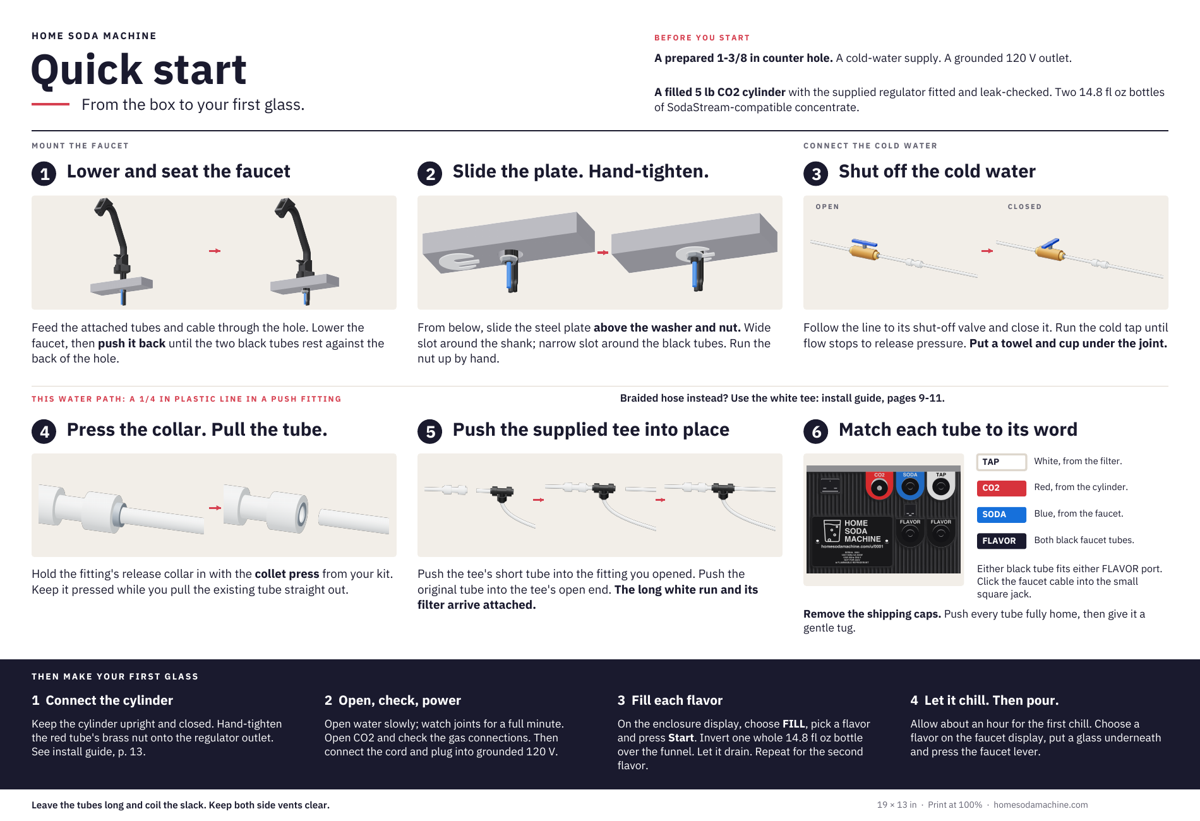
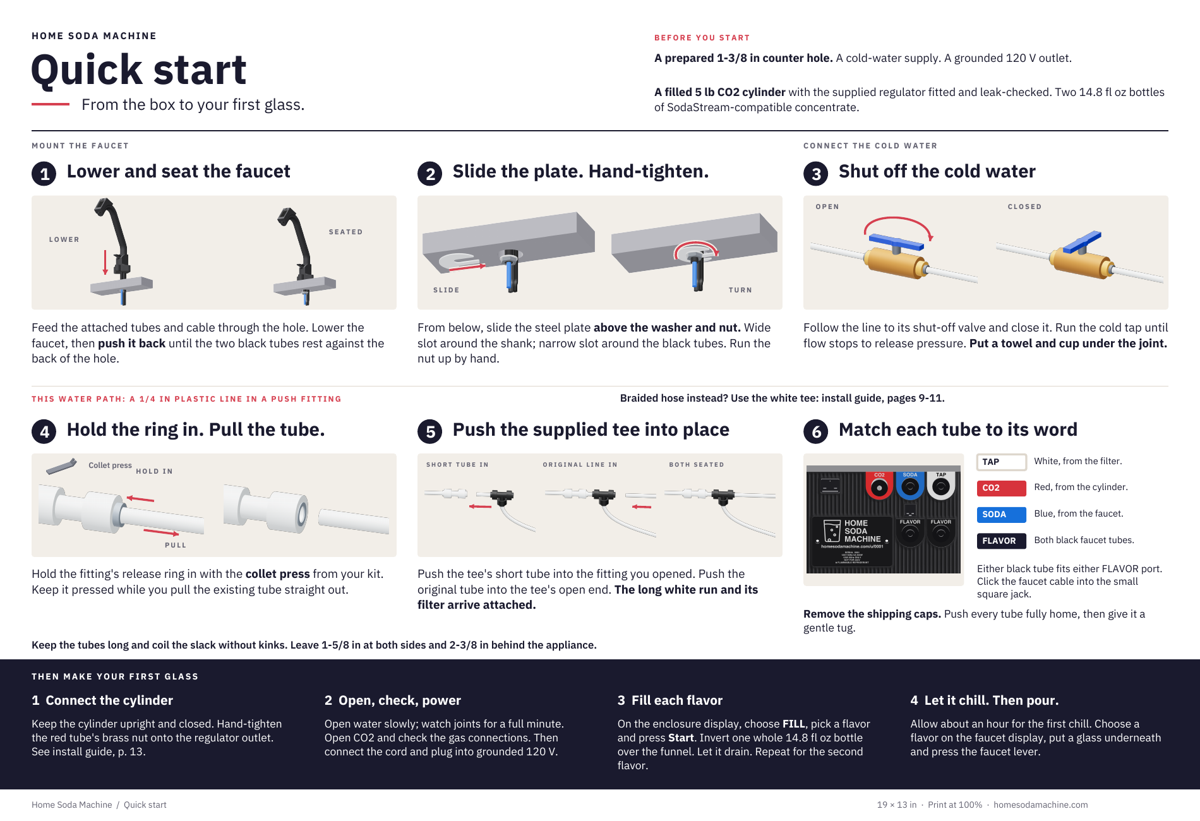
Clarify quick start motion cues and cabinet clearances

diff --git a/tools/quickstart-codex/build.py b/tools/quickstart-codex/build.py
@@ -59,22 +59,32 @@ def label(s,x,y,color=MUTED,size=9):
     t.setFont('Bold',size);t.setCharSpace(1.5);t.textOut(s.upper());c.drawText(t)
     c.restoreState()
 
-def pic(name,x,y,w,h):
+def pic(name,x,y,w,h,crop=None):
     im=Image.open(ART/name)
-    if im.mode=='RGBA':
-        bounds=im.getchannel('A').getbbox()
-        if bounds: im=im.crop(bounds)
+    bounds=crop or (im.getchannel('A').getbbox() if im.mode=='RGBA' else None) or (0,0,im.width,im.height)
+    im=im.crop(bounds)
     scale=min(w/im.width,h/im.height)
     iw,ih=im.width*scale,im.height*scale
-    c.drawImage(ImageReader(im),x+(w-iw)/2,H-y-(h+ih)/2,width=iw,height=ih,mask='auto')
+    ox,oy=x+(w-iw)/2,y+(h-ih)/2
+    c.drawImage(ImageReader(im),ox,H-oy-ih,width=iw,height=ih,mask='auto')
+    return lambda px,py: (ox+(px-bounds[0])*scale,oy+(py-bounds[1])*scale)
 
 def arrow(x1,y1,x2,y2,color=CORAL,width=2.4,head=8):
+    line(x1,y1,x2,y2,PALE,width+3)
     line(x1,y1,x2,y2,color,width)
     a=math.atan2(y2-y1,x2-x1)
     pts=[(x2,y2),(x2-head*math.cos(a-.5),y2-head*math.sin(a-.5)),(x2-head*math.cos(a+.5),y2-head*math.sin(a+.5))]
     p=c.beginPath();p.moveTo(pts[0][0],H-pts[0][1])
     for x,y in pts[1:]:p.lineTo(x,H-y)
     p.close();c.setFillColor(HexColor(color));c.drawPath(p,fill=1,stroke=0)
+
+def turn(points,head=7):
+    a,b,d,e=points
+    p=c.beginPath();p.moveTo(a[0],H-a[1]);p.curveTo(b[0],H-b[1],d[0],H-d[1],e[0],H-e[1])
+    c.setStrokeColor(HexColor(PALE));c.setLineWidth(5.4);c.drawPath(p)
+    c.setStrokeColor(HexColor(CORAL));c.setLineWidth(2.4);c.drawPath(p)
+    vx,vy=e[0]-d[0],e[1]-d[1];length=math.hypot(vx,vy)
+    arrow(e[0]-2*vx/length,e[1]-2*vy/length,*e,head=head)
 
 def step(n,title,x,y):
     c.setFillColor(HexColor(INK));c.circle(x+14,H-y-14,14,stroke=0,fill=1)
@@ -105,50 +115,64 @@ label('CONNECT THE COLD WATER',916,162)
 x,y=36,184
 step(1,'Lower and seat the faucet',x,y)
 artfield(x,y+39)
-pic('mount-drop.png',x+8,y+42,189,122)
-pic('mount-lowered-clean.png',x+217,y+42,189,122)
-arrow(x+202,y+102,x+215,y+102,head=6)
+p=pic('mount-drop.png',x+8,y+42,189,122,crop=(9,33,763,1331))
+pic('mount-lowered-clean.png',x+217,y+42,189,122,crop=(9,-47,763,1251))
+arrow(*p(190,660),*p(190,963),head=7)
+label('LOWER',x+20,y+86,size=8)
+label('SEATED',x+339,y+77,size=8)
 para('Feed the attached tubes and cable through the hole. Lower the faucet, then <b>push it back</b> until the two black tubes rest against the back of the hole.',x,y+181,416,13.5,17.5,limit=70)
 
 x=476
 step(2,'Slide the plate. Hand-tighten.',x,y)
 artfield(x,y+39)
-pic('mount-under-slide-clean.png',x+6,y+50,196,107)
-pic('mount-under-tighten-clean.png',x+221,y+50,189,107)
-arrow(x+205,y+104,x+217,y+104,head=6)
+p=pic('mount-under-slide-clean.png',x+6,y+50,196,107)
+arrow(*p(318,470),*p(600,435),head=7)
+q=pic('mount-under-tighten-clean.png',x+221,y+50,189,107)
+turn([q(640,386),q(570,218),q(970,204),q(959,361)])
+label('SLIDE',x+18,y+143,size=8)
+label('TURN',x+355,y+143,size=8)
 para('From below, slide the steel plate <b>above the washer and nut.</b> Wide slot around the shank; narrow slot around the black tubes. Run the nut up by hand.',x,y+181,416,13.5,17.5,limit=70)
 
 x=916
 step(3,'Shut off the cold water',x,y)
 artfield(x,y+39)
-pic('modern-water-on.png',x+8,y+66,190,89)
-pic('modern-water-off.png',x+220,y+66,190,89)
+p=pic('modern-water-on.png',x+8,y+61,190,91,crop=(170,190,1100,635))
+pic('modern-water-off.png',x+220,y+61,190,91,crop=(170,190,1100,635))
 label('OPEN',x+14,y+48,size=8)
 label('CLOSED',x+233,y+48,size=8)
-arrow(x+203,y+102,x+216,y+102,head=6)
+turn([p(475,300),p(450,160),p(860,175),p(837,336)])
 para('Follow the line to its shut-off valve and close it. Run the cold tap until flow stops to release pressure. <b>Put a towel and cup under the joint.</b>',x,y+181,416,13.5,17.5,limit=70)
 
 line(36,440,1332,440)
 label('THIS WATER PATH: A 1/4 IN PLASTIC LINE IN A PUSH FITTING',36,451,color=CORAL,size=9)
 text('Braided hose instead? Use the white tee: install guide, pages 9-11.',707,449,12,'Semibold')
+c.linkURL('https://homesodamachine.com/docs/install-guide/install-guide.pdf#page=9',(707,H-467,1332,H-448),relative=0)
 
 # Row 2.
 x,y=36,478
-step(4,'Press the collar. Pull the tube.',x,y)
+step(4,'Hold the ring in. Pull the tube.',x,y)
 artfield(x,y+39,h=118)
-pic('modern-release-ready.png',x+8,y+67,188,72)
+p=pic('modern-release-ready.png',x+8,y+67,188,72)
 pic('modern-release-withdrawn.png',x+219,y+67,188,72)
-arrow(x+202,y+101,x+216,y+101,head=6)
-para('Hold the fitting\'s release collar in with the <b>collet press</b> from your kit. Keep it pressed while you pull the existing tube straight out.',x,y+168,416,13.5,17.5,limit=70)
+pic('collet-press.png',x+10,y+44,48,19)
+text('Collet press',x+65,y+49,9,'Semibold',MUTED)
+arrow(*p(1400,378),*p(1070,336),head=7)
+arrow(*p(1275,730),*p(1700,785),head=7)
+label('HOLD IN',x+119,y+56,size=8)
+label('PULL',x+152,y+140,size=8)
+para('Hold the fitting\'s release ring in with the <b>collet press</b> from your kit. Keep it pressed while you pull the existing tube straight out.',x,y+168,416,13.5,17.5,limit=70)
 
 x=476
 step(5,'Push the supplied tee into place',x,y)
 artfield(x,y+39,h=118)
-pic('modern-tee-assembly-ready.png',x+8,y+53,126,94)
-pic('modern-tee-line-ready.png',x+146,y+53,126,94)
-pic('modern-tee-complete.png',x+282,y+53,126,94)
-arrow(x+132,y+92,x+144,y+92,head=5)
-arrow(x+271,y+92,x+282,y+92,head=5)
+label('SHORT TUBE IN',x+10,y+49,size=7)
+label('ORIGINAL LINE IN',x+143,y+49,size=7)
+label('BOTH SEATED',x+287,y+49,size=7)
+p=pic('modern-tee-assembly-ready.png',x+8,y+65,126,84,crop=(0,161,2000,1032))
+q=pic('modern-tee-line-ready.png',x+146,y+65,126,84,crop=(0,161,2000,1032))
+pic('modern-tee-complete.png',x+282,y+65,126,84,crop=(0,161,2000,1032))
+arrow(*p(1210,484),*p(811,474),head=6)
+arrow(*q(1910,490),*q(1570,479),head=6)
 para('Push the tee\'s short tube into the fitting you opened. Push the original tube into the tee\'s open end. <b>The long white run and its filter arrive attached.</b>',x,y+168,416,13.5,17.5,limit=70)
 
 x=916
@@ -163,6 +187,7 @@ para('Either black tube fits either FLAVOR port. Click the faucet cable into the
 para('<b>Remove the shipping caps.</b> Push every tube fully home, then give it a gentle tug.',x,y+214,416,12.5,16,limit=32)
 
 # First glass, below the installation sequence.
+text('Keep the tubes long and coil the slack without kinks. Leave 1-5/8 in at both sides and 2-3/8 in behind the appliance.',36,730,12,'Semibold')
 rect(0,752,W,148,INK)
 label('THEN MAKE YOUR FIRST GLASS',36,767,color='#ffffff',size=10)
 starts=[36,370,704,1038]
@@ -177,7 +202,7 @@ for xx,title,body in zip(starts,titles,bodies):
     text(title,xx,792,15,'Bold','#ffffff')
     para(body,xx,817,293,12.5,16,color='#ffffff',limit=80)
 
-text('Leave the tubes long and coil the slack. Keep both side vents clear.',36,913,11,'Semibold')
+text('Home Soda Machine  /  Quick start',36,913,10,color=MUTED)
 text('19 × 13 in  ·  Print at 100%  ·  homesodamachine.com',1000,913,10,color=MUTED)
 
 c.showPage();c.save()
